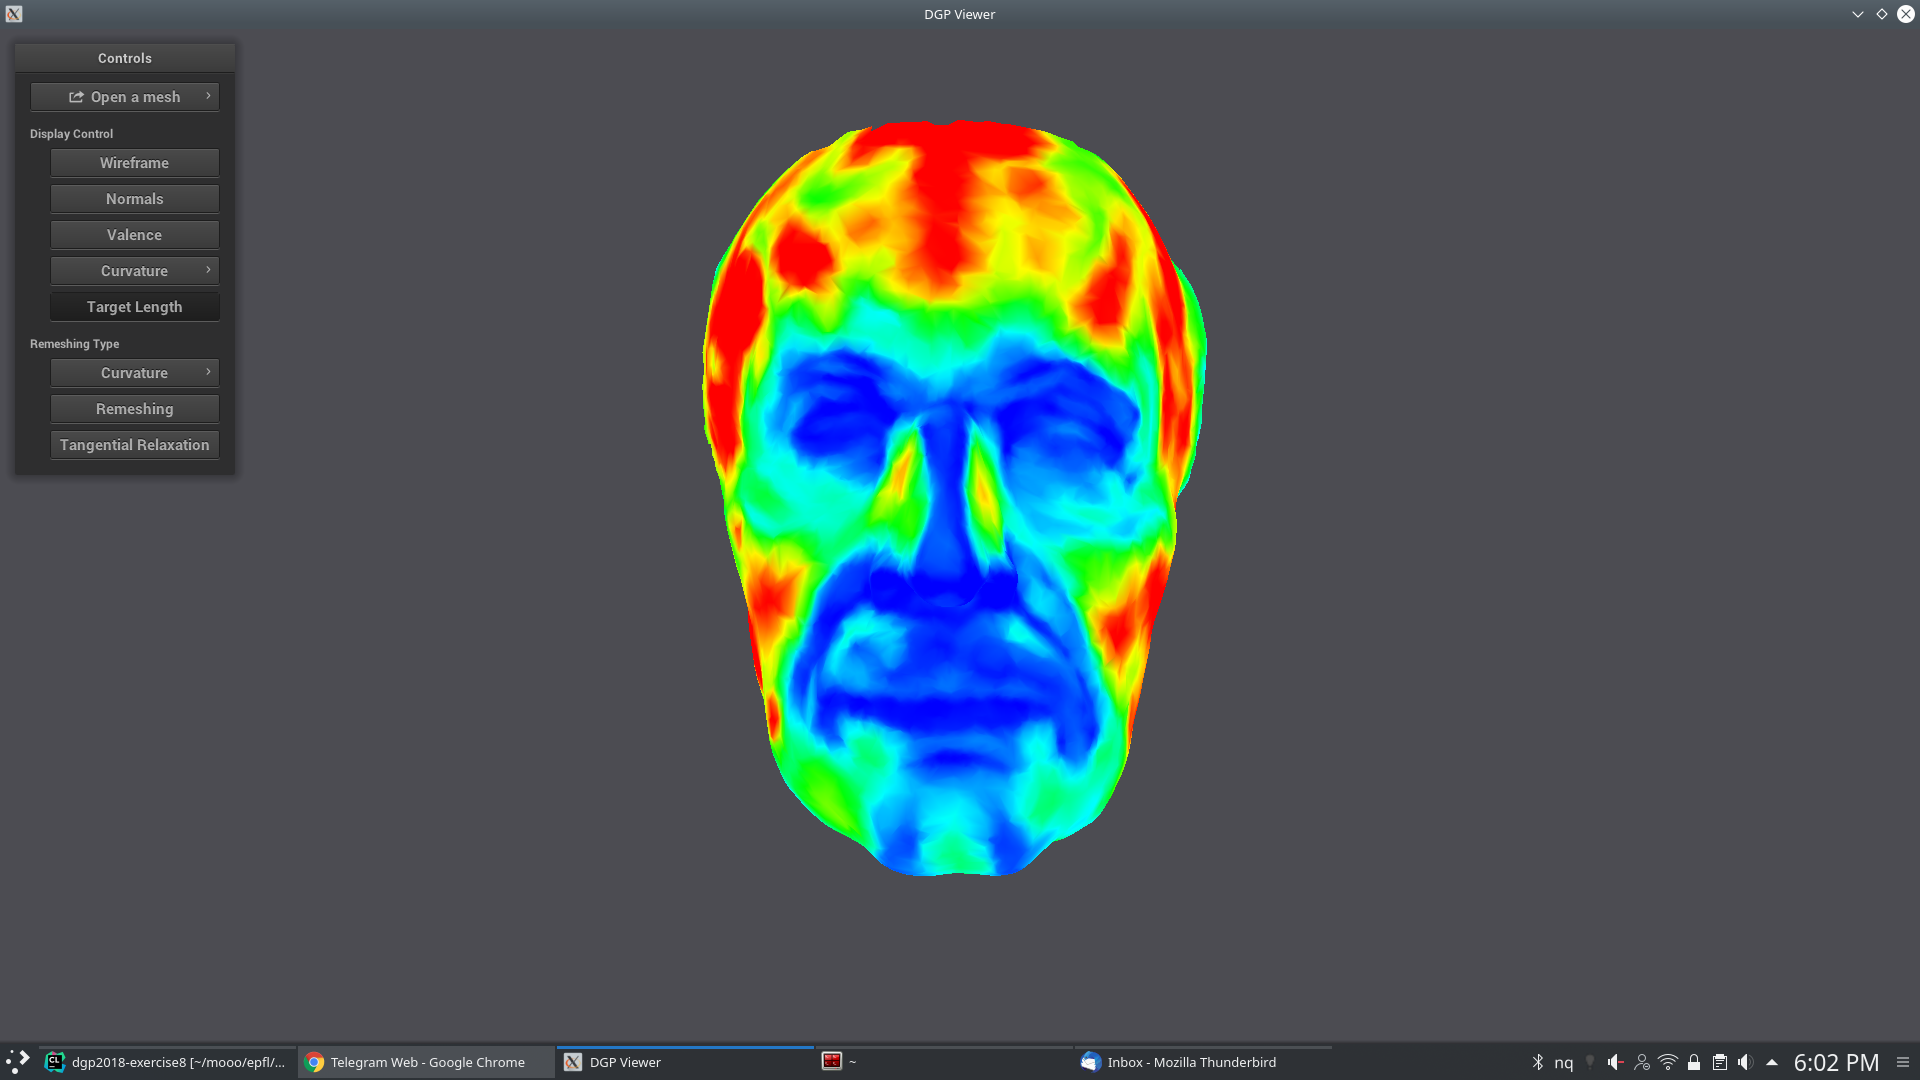
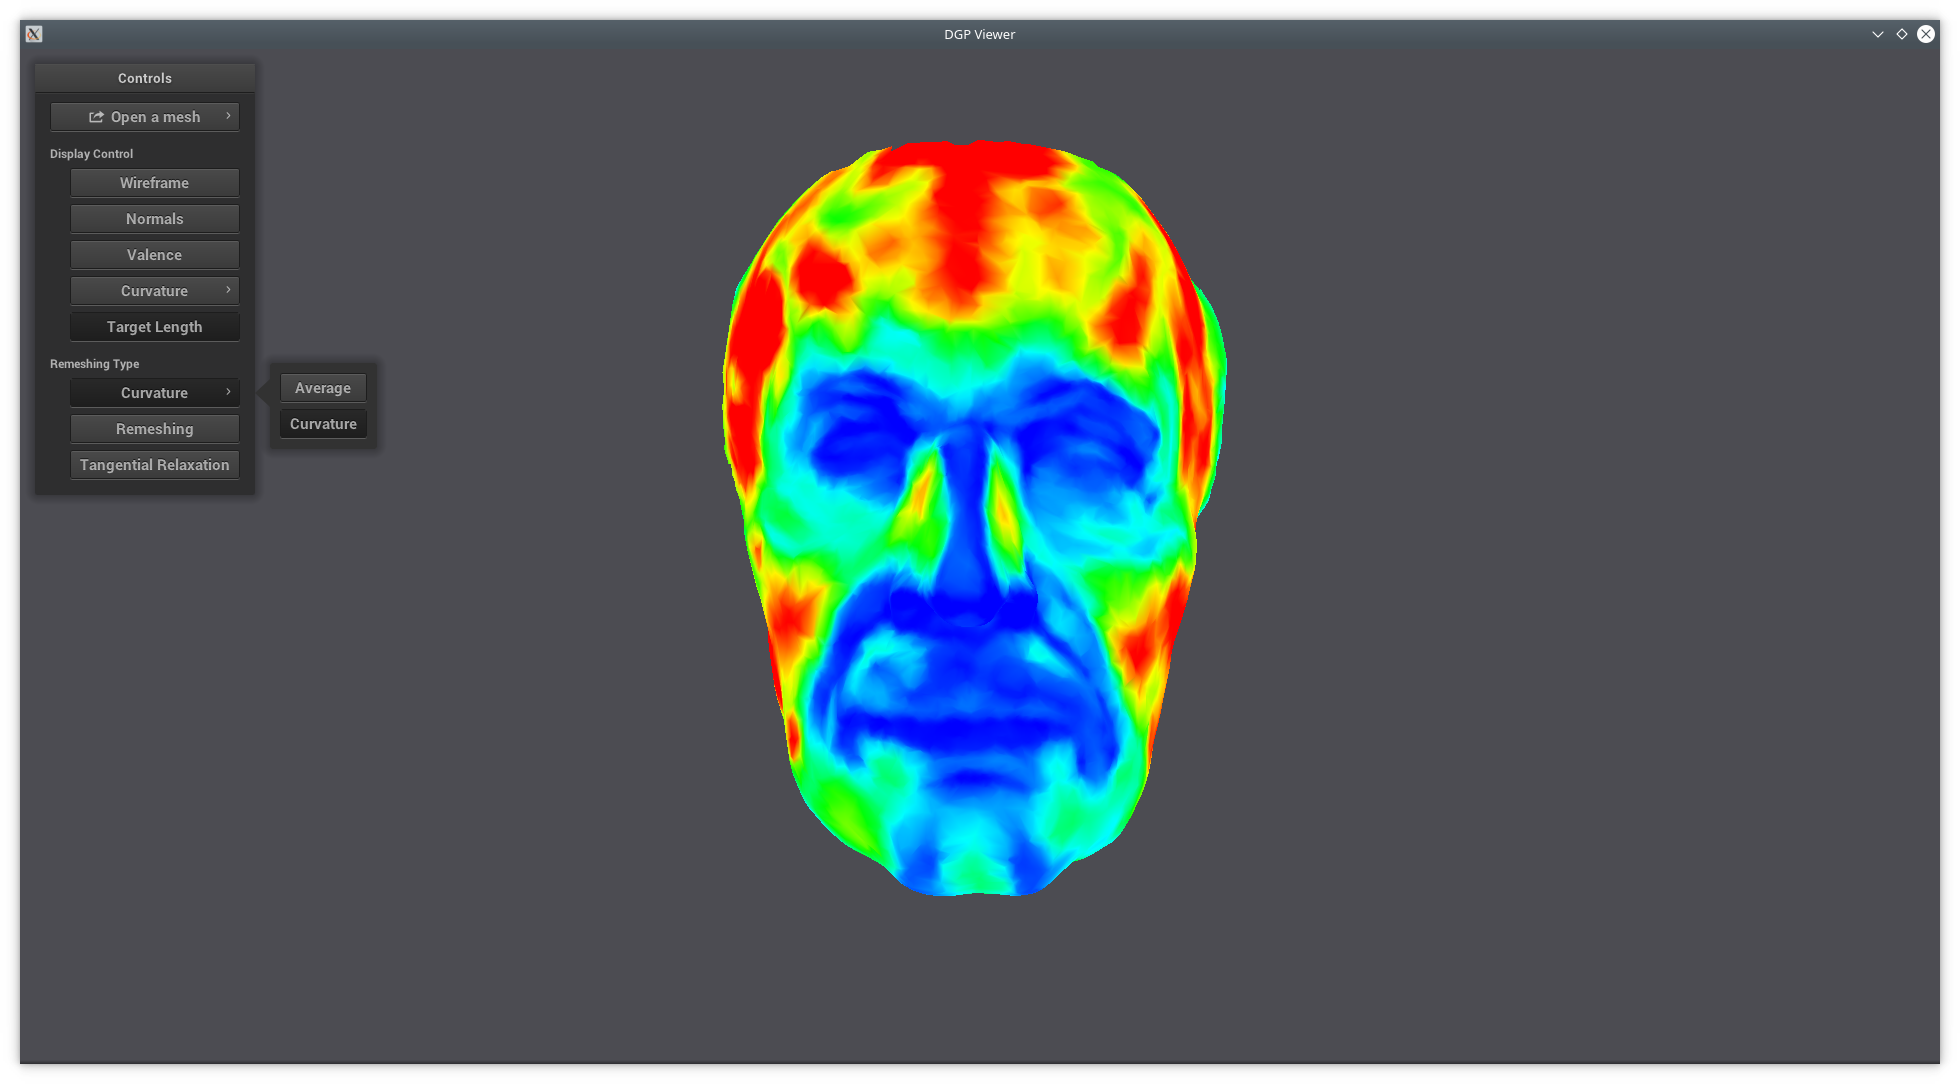
Change lambda

Changed region(s): [[0.0, 0.0, 1.0, 1.0], [0.3438, 0.0917, 0.6562, 0.825]]

diff --git a/dgp2018-exercise8/remeshing/mesh_processing.cpp b/dgp2018-exercise8/remeshing/mesh_processing.cpp
@@ -313,7 +313,6 @@ namespace mesh_processing {
 
     void MeshProcessing::tangential_relaxation() {
         Mesh::Vertex_iterator v_it, v_end(mesh_.vertices_end());
-        Mesh::Vertex_around_vertex_circulator vv_c, vv_end;
         Point u, n;
         Point laplace;
         int c = 0;
@@ -349,7 +348,7 @@ namespace mesh_processing {
                     u = Point(proj(0), proj(1), proj(2));
 
                     // Set update to the projection
-                    update[*v_it] = .1 * u;
+                    update[*v_it] = u;
                 }
             }
 

diff --git a/dgp2018-exercise8/remeshing/viewer.cpp b/dgp2018-exercise8/remeshing/viewer.cpp
@@ -371,7 +371,7 @@ Viewer::Viewer() : nanogui::Screen(Eigen::Vector2i(1024, 768), "DGP Viewer") {
     target_length_btn->setFlags(Button::ToggleButton);
     target_length_btn->setChangeCallback([this](bool do_show) {
         if (do_show) {
-            this->mesh_->calc_target_length(remeshing_type);
+            this->mesh_->calc_target_length(this->remeshing_type);
             this->refresh_mesh(); //upload the computed target length to GPU
             this->color_mode = TARGET_LENGTH;
         } else {
